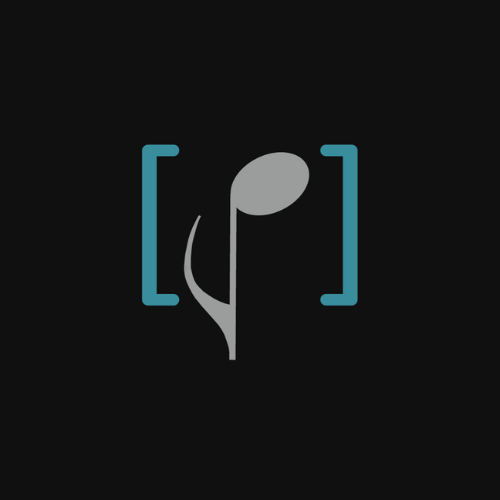
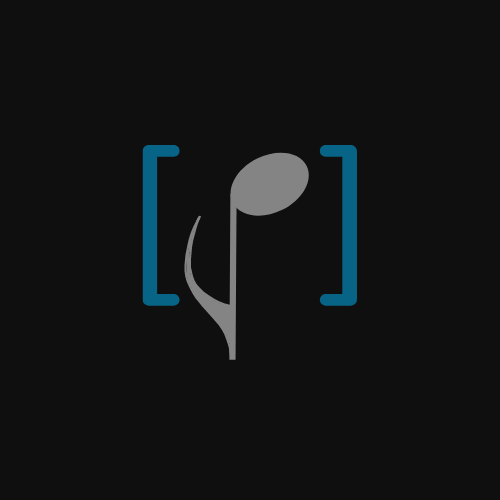
Change blue and black hex values and fonts

diff --git a/web-apps/static/playlister/styles.css b/web-apps/static/playlister/styles.css
@@ -1,10 +1,12 @@
+/* Adobe fonts -> 'Cubano' & 'Bryant Web' */
 @import url("https://use.typekit.net/nbg5qht.css");
+/* Google fonts */
+@import url('https://fonts.googleapis.com/css2?family=Josefin+Sans:wght@100;200;300;400;500;600;700&family=Oswald:wght@100;200;300;400;500;600;700&display=swap');
 
-/* NEW BLUE: #00B8FC */
-/* NEW BLACK: #202124 */
+
 :root {
-    --bg-color: #212529;
-    --logo-blue: #54E1FA;
+    --bg-color: #202124;
+    --logo-blue: #00B8FC;
     --text-color: #F8F9FA;
 }
 html {
@@ -15,15 +17,18 @@ body {
     color: var(--text-color);
     display: flex;
     flex-direction: column;
-    font-family: 'bryant', sans-serif;
-    font-weight: 300;
-    letter-spacing: .08rem;
+    font-family: 'bryant-web', sans-serif;
+    font-weight: 400;
+    letter-spacing: 0.05rem;
 }
 hr {
     margin: 0;
 }
 .text-color {
     color: var(--text-color);
+}
+.navbar-dark {
+    background-color: var(--bg-color) !important;
 }
 #pfp {
     border-radius: 50%;
@@ -41,6 +46,10 @@ hr {
     left: 10.5rem;
     position: absolute;
     top: 3.35rem;
+}
+section,
+.btn {
+    font-weight: 500;
 }
 .btn-outline-info {
     border-color: var(--logo-blue);

diff --git a/web-apps/static/styles.css b/web-apps/static/styles.css
@@ -3,11 +3,10 @@
 /* Google fonts */
 @import url('https://fonts.googleapis.com/css2?family=Josefin+Sans:wght@100;200;300;400;500;600;700&family=Oswald:wght@100;200;300;400;500;600;700&display=swap');
 
-/* NEW BLUE: #00B8FC */
-/* NEW BLACK: #202124 */
+
 :root {
-    --bg-color: #212529;
-    --logo-blue: #54E1FA;
+    --bg-color: #202124;
+    --logo-blue: #00B8FC;
     --text-color: #F8F9FA;
 }
 * {
